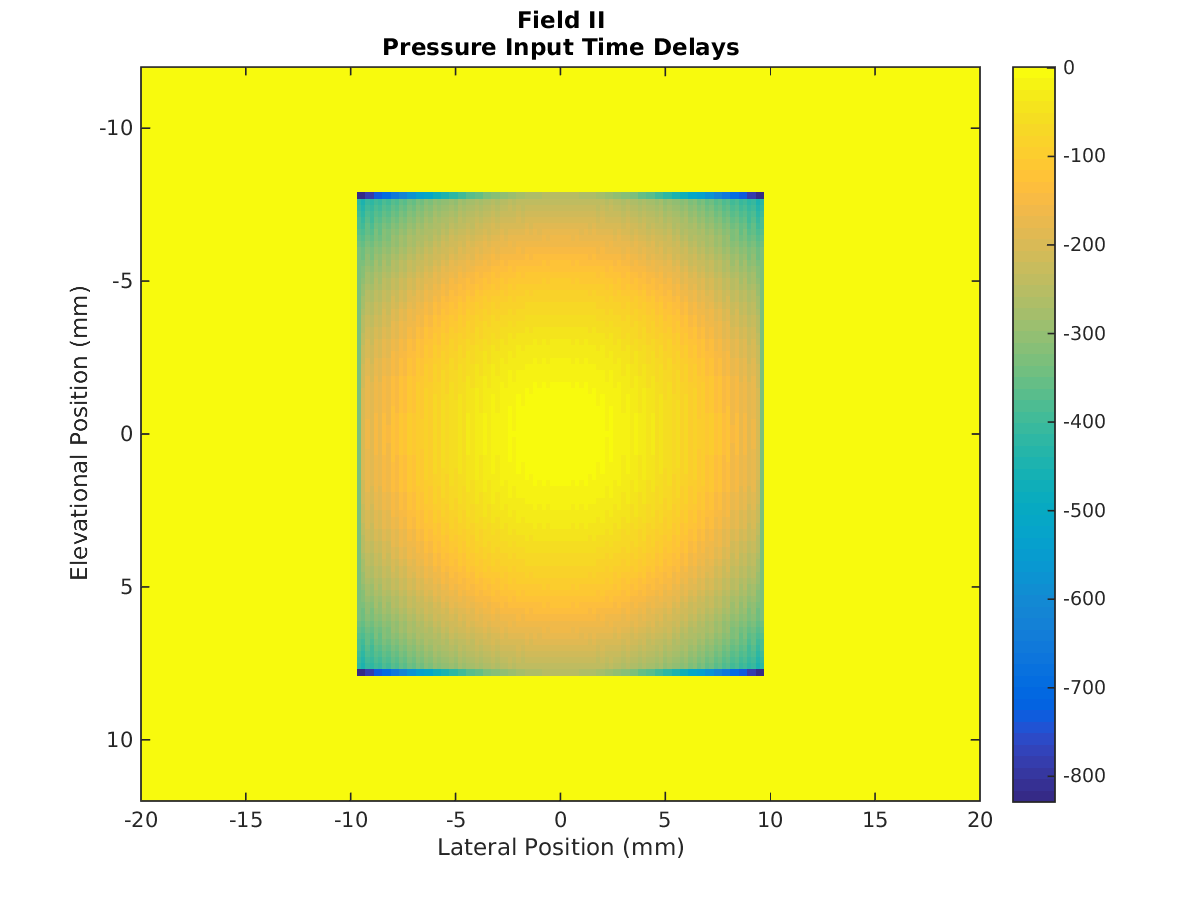
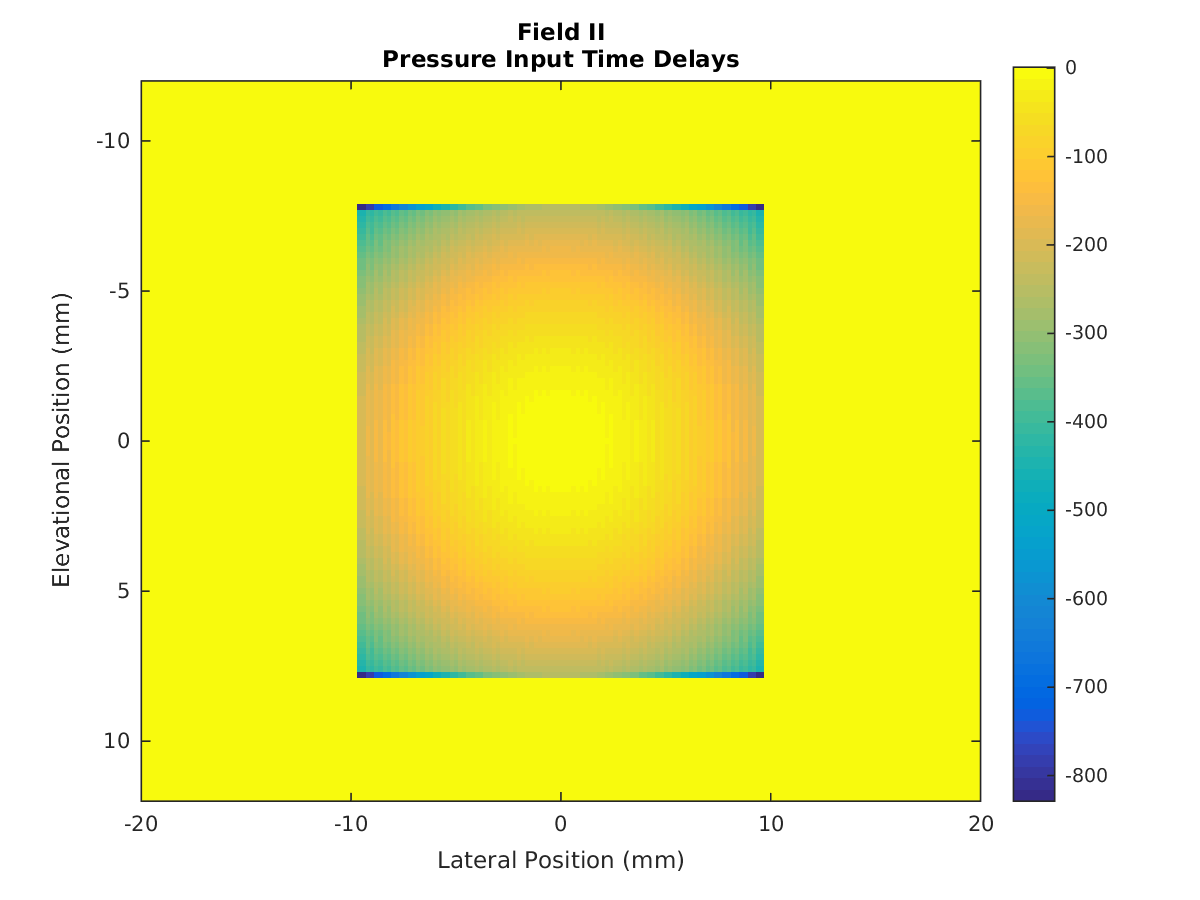
made same interpolation correction for 70mm field ii pressure inputs

diff --git a/kzk/field_ii_c52_focus70mm/make_field_70mm_pressures.m b/kzk/field_ii_c52_focus70mm/make_field_70mm_pressures.m
@@ -187,6 +187,12 @@ end
 depth_field = griddata(math_elem_pos(:, 2), math_elem_pos(:, 1), math_elem_pos(:, 3),...
                        eleGridInterp, latGridInterp, 'linear');
                    
+ % small correction here b/c griddata causes discontinuous z-values at
+% lateral positions of +/- 5.2 mm. Just interpolate using the +/- 5.0 mm
+% z-values. 
+depth_field(:, latMinIndex) = depth_field(:, latMinIndex+1);
+depth_field(:, latMaxIndex) = depth_field(:, latMaxIndex-1);          
+
 depth_field(isnan(depth_field)) = 0; % Set NaN vals to 0.
 depth_field = depth_field * 1e-3; % mm to m
 depth_field = depth_field'; % change dimensions to be lat x ele
